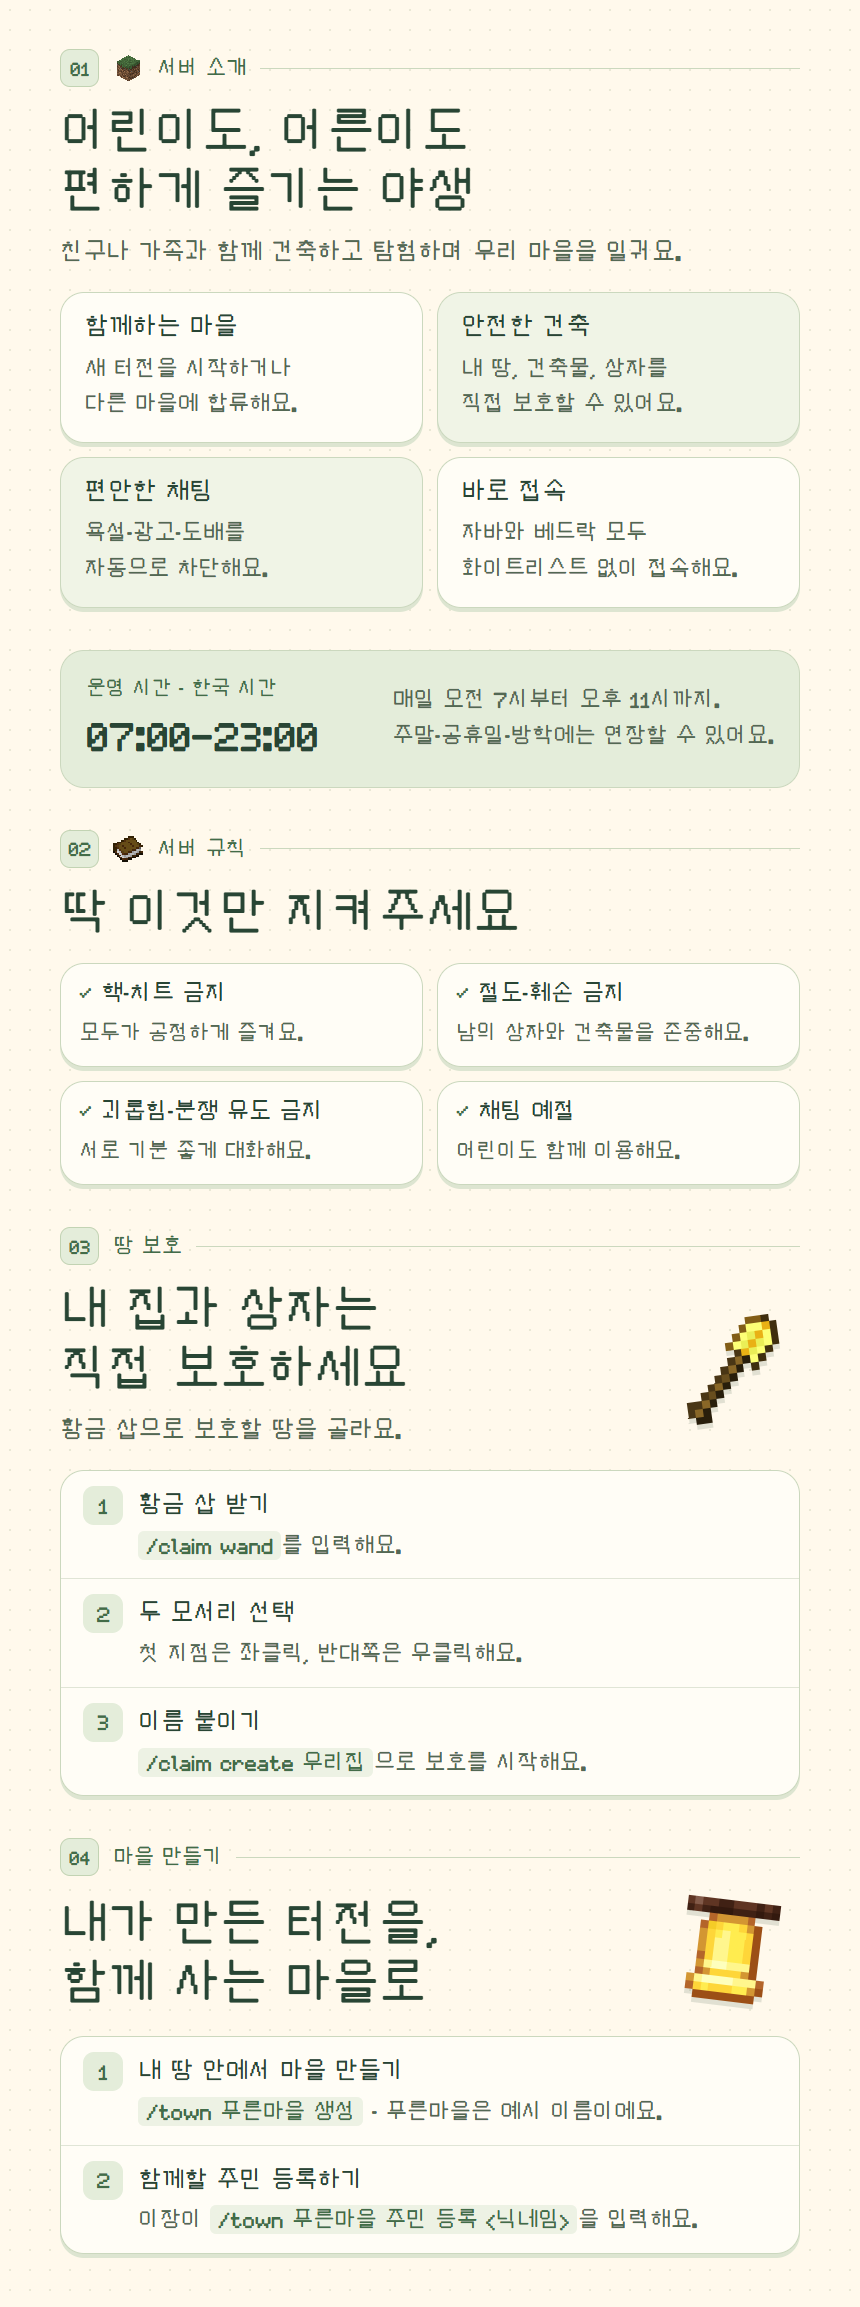
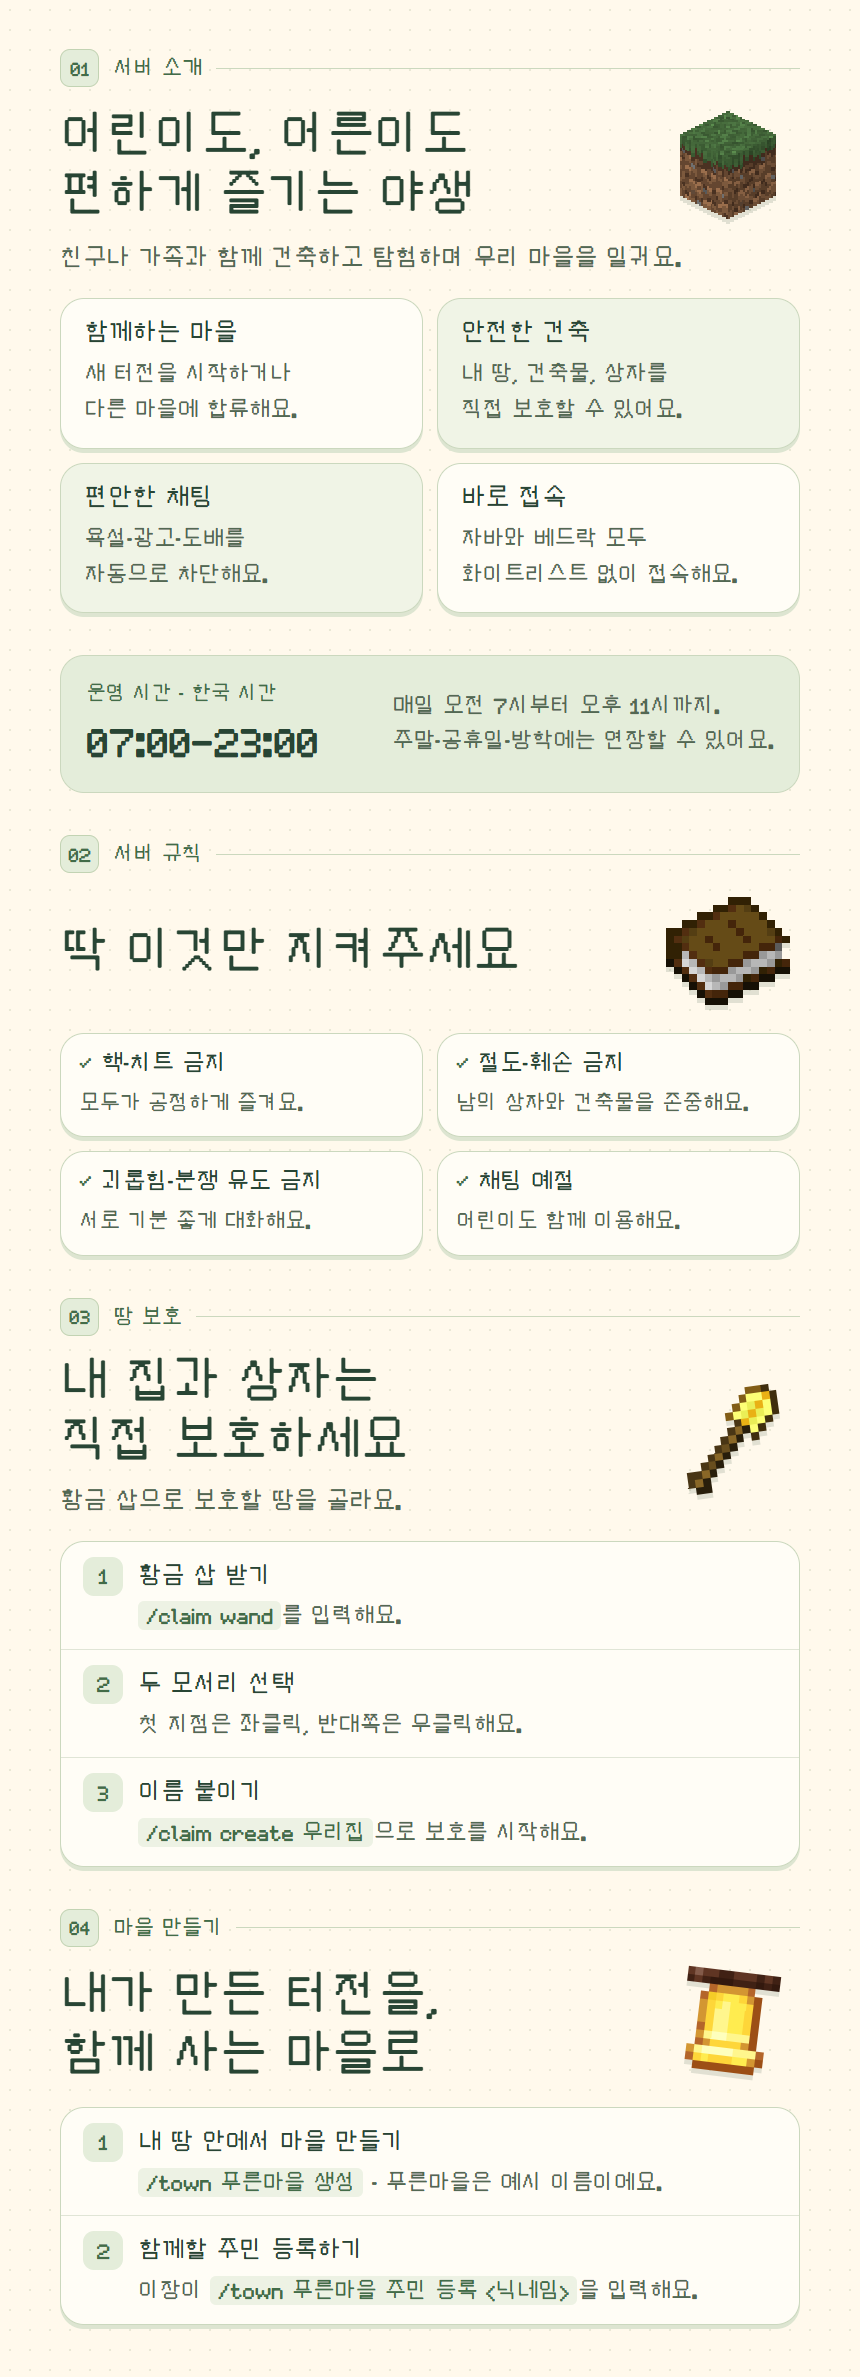
Place Minecraft artwork beside each guide title

diff --git a/index.html b/index.html
@@ -242,37 +242,43 @@
         border-bottom: 1px solid var(--line);
       }
       .green-rates dd { flex: 0 0 auto; margin: 0; color: #3c6a48; }
-      .section-number.guide-kicker {
+      .guide-title-row {
         display: flex;
         align-items: center;
-        gap: 12px;
+        justify-content: space-between;
+        gap: clamp(10px, 2vw, 24px);
       }
-      .guide-icon {
-        display: inline-grid;
+      main .guide-title-row > h2 { min-width: 0; margin: 0; }
+      .guide-title-art {
+        display: block;
         flex: none;
-        place-items: center;
-        width: 43px;
-        height: 43px;
-        border: 1px solid #c4d2b4;
-        border-radius: 12px;
-        background: #edf2e3;
+        width: clamp(42px, 6.3vw, 88px);
+        height: auto;
+        aspect-ratio: 1;
       }
-      .guide-icon img, .menu-icon img {
+      .guide-title-art img, img.guide-title-art, .menu-icon img {
         display: block;
         object-fit: contain;
         image-rendering: pixelated;
       }
-      .main-nav .nav-green { display: inline-flex; align-items: center; gap: 5px; white-space: nowrap; }
-      .nav-green img { display: block; image-rendering: pixelated; }
-      .guide-icon-large { width: 62px; height: 60px; border-radius: 16px; }
-      .guide-notes { position: relative; width: 92px; }
-      .guide-notes img { position: absolute; }
-      .guide-notes img:nth-child(1) { left: 7px; top: 16px; transform: rotate(-15deg); }
-      .guide-notes img:nth-child(2) { left: 25px; top: 5px; transform: rotate(-2deg); }
-      .guide-notes img:nth-child(3) { left: 42px; top: 16px; transform: rotate(14deg); }
+      .guide-title-art { filter: drop-shadow(0 4px 0 #4d69432b); }
+      .guide-shovel { width: clamp(52px, 7.2vw, 108px); }
+      .guide-notes { position: relative; width: clamp(64px, 10vw, 144px); aspect-ratio: 1.4; }
+      .guide-notes img { position: absolute; width: 47%; height: auto; }
+      .guide-notes img:nth-child(1) { left: 1%; top: 24%; transform: rotate(-15deg); }
+      .guide-notes img:nth-child(2) { left: 28%; top: 0; transform: rotate(-2deg); }
+      .guide-notes img:nth-child(3) { left: 52%; top: 25%; transform: rotate(14deg); }
+      .join-heading .guide-title-row { max-width: 520px; margin-bottom: 16px; }
       .menu-icon img { width: 36px; height: 36px; }
+      @media (min-width: 861px) {
+        .claim-guide .claim-heading, .social-guide .social-heading {
+          grid-template-columns: minmax(0, 1.06fr) minmax(0, .94fr);
+        }
+        .claim-heading .guide-title-row, .social-heading .guide-title-row { grid-column: 1; grid-row: 2; }
+      }
       @media (max-width: 860px) {
         .green-guide .claim-steps { grid-template-columns: 1fr; }
+        .claim-heading .guide-title-row, .social-heading .guide-title-row { margin-bottom: 16px; }
       }
       @media (max-width: 600px) {
         .green-guide .claim-commands, .green-rates dl { grid-template-columns: 1fr; }
@@ -301,7 +307,7 @@
       <nav class="main-nav" aria-label="주 메뉴">
         <a href="map.html">마을 지도 ↗</a>
         <a href="#towns">마을 만들기</a>
-        <a class="nav-green" href="#green"><img src="evergreen-guide-green.png" width="20" height="20" alt="" decoding="async" />그린·환전</a>
+        <a href="#green">그린·환전</a>
         <a href="#vote">서버 추천</a>
         <a class="mini-cta" href="#join">접속하기</a>
       </nav>
@@ -401,8 +407,11 @@
 
       <section class="section intro" aria-labelledby="intro-title">
         <div class="section-heading">
-          <p class="section-number guide-kicker"><span class="guide-icon"><img src="evergreen-guide-grass.png" width="27" height="27" alt="" decoding="async" /></span>01 / ABOUT</p>
-          <h2 id="intro-title">어린이도, 어른이도<br />편하게 즐기는 야생</h2>
+          <p class="section-number">01 / ABOUT</p>
+          <div class="guide-title-row">
+            <h2 id="intro-title">어린이도, 어른이도<br />편하게 즐기는 야생</h2>
+            <img class="guide-title-art" src="evergreen-guide-grass.png" width="88" height="88" alt="" loading="lazy" decoding="async" />
+          </div>
         </div>
         <div class="intro-copy">
           <p>
@@ -448,8 +457,11 @@
 
       <section class="section rules" aria-labelledby="rules-title">
         <div class="section-heading">
-          <p class="section-number guide-kicker"><span class="guide-icon"><img src="evergreen-guide-book.png" width="27" height="27" alt="" loading="lazy" decoding="async" /></span>02 / RULES</p>
-          <h2 id="rules-title">딱 이것만<br />지켜주세요</h2>
+          <p class="section-number">02 / RULES</p>
+          <div class="guide-title-row">
+            <h2 id="rules-title">딱 이것만<br />지켜주세요</h2>
+            <img class="guide-title-art" src="evergreen-guide-book.png" width="88" height="88" alt="" loading="lazy" decoding="async" />
+          </div>
         </div>
         <ol class="rules-list">
           <li><span>01</span><div><strong>핵·치트 금지</strong><p>공정하게 즐겨주세요.</p></div></li>
@@ -461,8 +473,11 @@
 
       <section class="claim-guide" id="claim" aria-labelledby="claim-title">
         <div class="claim-heading">
-          <p class="section-number guide-kicker"><span class="guide-icon guide-icon-large"><img src="evergreen-guide-shovel.png" width="46" height="46" alt="" loading="lazy" decoding="async" /></span>03 / LAND CLAIM</p>
-          <h2 id="claim-title">내 집과 상자는<br />직접 보호하세요.</h2>
+          <p class="section-number">03 / LAND CLAIM</p>
+          <div class="guide-title-row">
+            <h2 id="claim-title">내 집과 상자는<br />직접 보호하세요.</h2>
+            <img class="guide-title-art guide-shovel" src="evergreen-guide-shovel.png" width="108" height="108" alt="" loading="lazy" decoding="async" />
+          </div>
           <p>황금 삽으로 두 모서리를 선택하면 간단하게 내 땅을 만들 수 있습니다.</p>
         </div>
 
@@ -495,8 +510,11 @@
 
       <section class="claim-guide town-guide" id="towns" aria-labelledby="town-title">
         <div class="claim-heading">
-          <p class="section-number guide-kicker"><span class="guide-icon"><img src="evergreen-guide-bell.png" width="29" height="29" alt="" loading="lazy" decoding="async" /></span>04 / YOUR TOWN</p>
-          <h2 id="town-title">내가 만든 터전을,<br />함께 사는 마을로.</h2>
+          <p class="section-number">04 / YOUR TOWN</p>
+          <div class="guide-title-row">
+            <h2 id="town-title">내가 만든 터전을,<br />함께 사는 마을로.</h2>
+            <img class="guide-title-art" src="evergreen-guide-bell.png" width="88" height="88" alt="" loading="lazy" decoding="async" />
+          </div>
           <p>내 보호구역을 마을로 등록하고 주민을 초대해 보세요. 아래 예시의 <strong>푸른마을</strong>은 원하는 마을 이름으로 바꾸면 됩니다.</p>
         </div>
 
@@ -545,15 +563,15 @@
 
       <section class="claim-guide green-guide" id="green" aria-labelledby="green-title">
         <div class="claim-heading">
-          <p class="section-number guide-kicker">
-            <span class="guide-icon guide-icon-large guide-notes">
+          <p class="section-number">그린 · 환전 안내</p>
+          <div class="guide-title-row">
+            <h2 id="green-title">우리 마을에<br />환전소를 열어요</h2>
+            <span class="guide-title-art guide-notes">
               <img src="evergreen-guide-green.png" width="40" height="40" alt="" loading="lazy" decoding="async" />
               <img src="evergreen-guide-green-5.png" width="40" height="40" alt="" loading="lazy" decoding="async" />
               <img src="evergreen-guide-green-10.png" width="40" height="40" alt="" loading="lazy" decoding="async" />
             </span>
-            그린 · 환전 안내
-          </p>
-          <h2 id="green-title">우리 마을에<br />환전소를 열어요</h2>
+          </div>
           <p>그린은 주민 거래에 쓰는 에버그린의 지폐예요. <strong>1그린은 에메랄드 1개</strong>와 같은 가치예요. 1·5·10그린권이 있고, 같은 금액의 지폐는 한 칸에 최대 64장까지 쌓여요.</p>
         </div>
 
@@ -603,8 +621,11 @@
 
       <section class="social-guide" id="friends" aria-labelledby="social-title">
         <div class="social-heading">
-          <p class="section-number guide-kicker"><span class="guide-icon"><img src="evergreen-guide-compass.png" width="27" height="27" alt="" loading="lazy" decoding="async" /></span>05 / MENU &amp; FRIENDS</p>
-          <h2 id="social-title">명령어를 외우지 말고<br />메뉴로 시작하세요.</h2>
+          <p class="section-number">05 / MENU &amp; FRIENDS</p>
+          <div class="guide-title-row">
+            <h2 id="social-title">명령어를 외우지 말고<br />메뉴로 시작하세요.</h2>
+            <img class="guide-title-art" src="evergreen-guide-compass.png" width="88" height="88" alt="" loading="lazy" decoding="async" />
+          </div>
           <p>
             채팅창에 <code>/menu</code>를 입력하면 토지 보호용 삽 받기부터
             보호 설정, 친구 관리까지 한 화면에서 이용할 수 있습니다.
@@ -655,8 +676,11 @@
 
       <section class="join" id="join" aria-labelledby="join-title">
         <div class="join-heading">
-          <p class="section-number guide-kicker"><span class="guide-icon"><img src="evergreen-guide-door.png" width="27" height="27" alt="" loading="lazy" decoding="async" /></span>06 / JOIN NOW</p>
-          <h2 id="join-title">블록 하나부터<br />같이 시작해요.</h2>
+          <p class="section-number">06 / JOIN NOW</p>
+          <div class="guide-title-row">
+            <h2 id="join-title">블록 하나부터<br />같이 시작해요.</h2>
+            <img class="guide-title-art" src="evergreen-guide-door.png" width="88" height="88" alt="" loading="lazy" decoding="async" />
+          </div>
           <p>아래 버튼을 누르면 접속 주소가 바로 복사됩니다.</p>
         </div>
 
